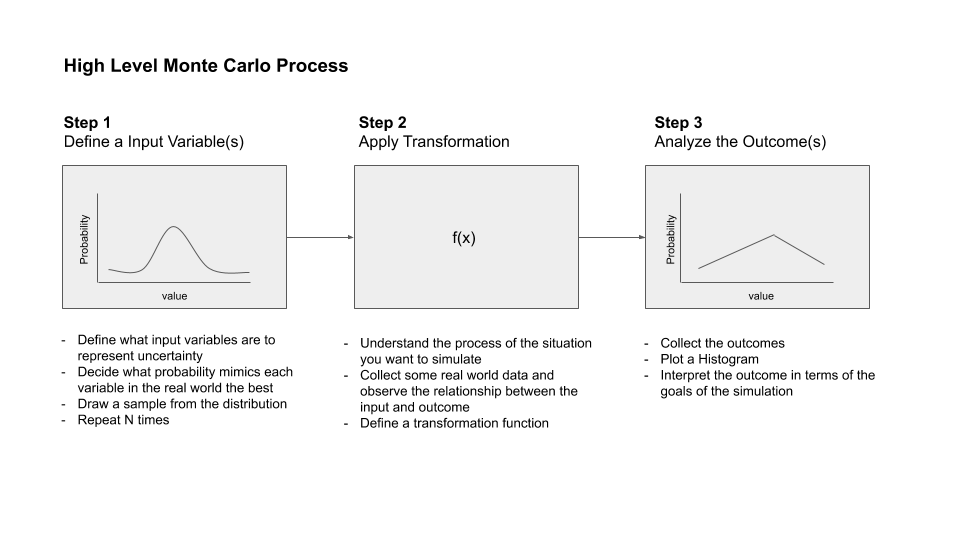
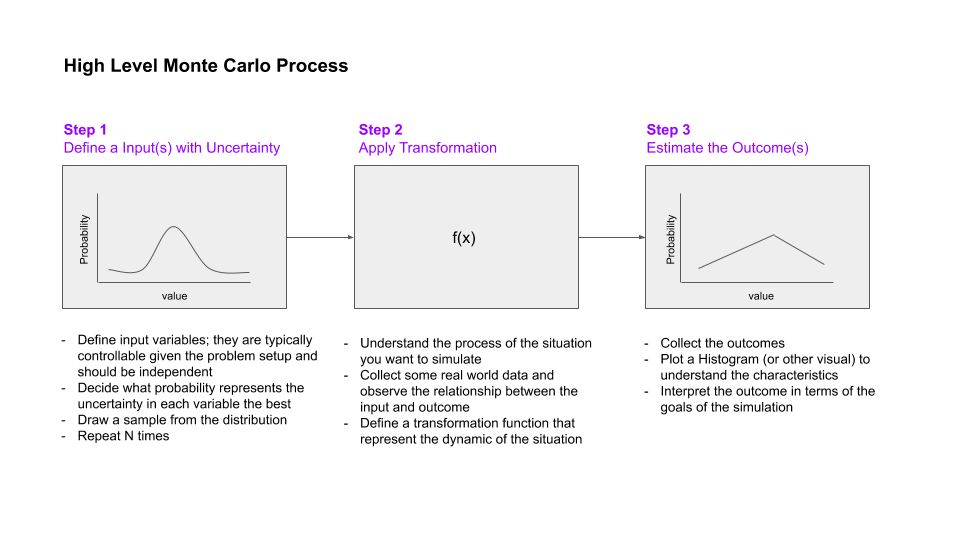
- updated monte carlo process visual

diff --git a/show_pages.py b/show_pages.py
@@ -1,9 +1,8 @@
 import streamlit as st
-import matplotlib.pyplot as plt
 import plotly.figure_factory as ff
 from PIL import Image
-from sims import AdSim
 import helpers
+
 
 def show_welcome_page():
 
@@ -16,11 +15,18 @@ def show_welcome_page():
 
     # HISTORY
     st.markdown("***")
+    st.markdown("** The Short History **")
     st.video("https://youtu.be/ioVccVC_Smg")
 
     # SIMULATION ARCHITECTURE
     st.markdown("***")
-    st.markdown("Monte Carlo Simulation can be represented in terms of input, transformation, and outcome.")
+    st.markdown("** The Monte Carlo Process**")
+    st.markdown("The goal of Monte Carlo Method is to **approximate an expected outcome** that is difficult to "
+                "calculate precisely. In real life, it's often impossible to come up with a single equation to "
+                "describe a system from inputs to outputs; even we can, it will be time consuming to "
+                "calculate and analyze all possible outcome scenarios. "
+                "As a practical alternative, Monte Carlo method allows us to take a **probability approach**.")
+
     image = Image.open('./asset/monte-carlo-process.png')
     st.image(image, caption='Monte Carlo Simulation Process', format='PNG',
              use_column_width=True)
@@ -183,12 +189,12 @@ def show_ad_budget():
                 "the highest price and lowest cost) \n"
                 "3. what are some tactical and simples ways to improve ROI? \n")
 
+
 def show_starbucks_operation():
 
     # set up layout
     st.title("Welcome to the COO Lab")
     st.markdown("Coming soon ...")
-
 
 
 def show_corporate_valuation():
